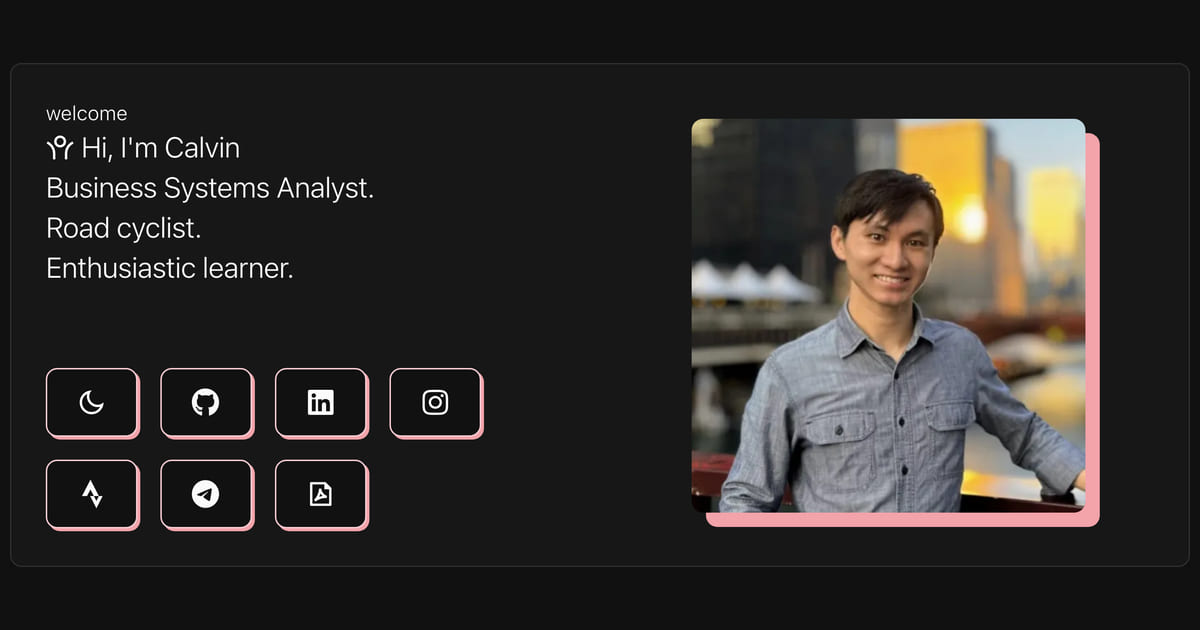
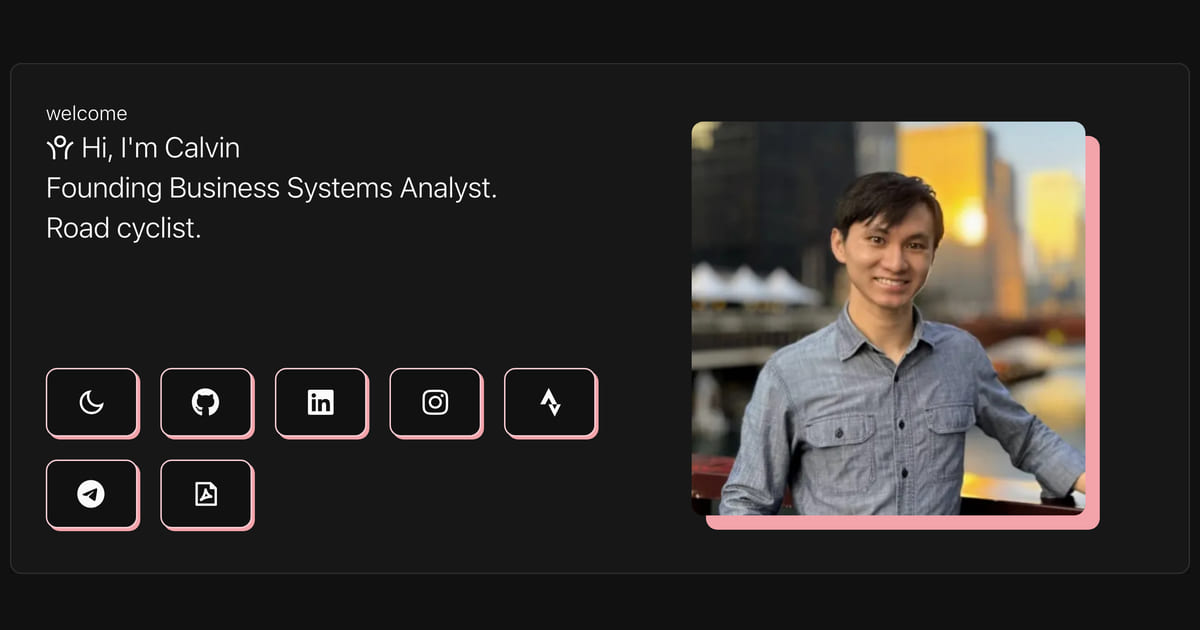
fix(seo): finish the job the title fix started, and gate it on the right quantity
A four-dimension review panel ran against 4aefb8a. It found the fix real and the
prose around it wrong in six places, plus two holes in the gates I added. This
commit applies all of it.

THE H1 WAS THE OTHER HALF OF THE DEFECT. WELCOME.description[1] read "Business
Systems Analyst." -- character-identical to CAREER[1].job_name, the title held at
NCS until Aug 2023 -- in the page's largest type, above a role card announcing the
current one. Correcting <title> and leaving that is a relocation, not a fix, so the
h1 now derives from CAREER[0] like everything else. "Enthusiastic learner." is cut
here too rather than surviving in the copy the title had to drop for width; the
stack is three h1s where it was four. public/preview.jpg is regenerated, because it
renders this card and is both the OG image and README's hero -- and og:title already
said "Founding" while that picture said otherwise. It was stale against main before
this branch: RMSE 17.1, the card 5px taller than when the file was made.

THE LENGTH CAP WAS NOT A WIDTH GATE. Two reviewers independently broke it in both
directions with unremarkable job titles: "Warehouse Automation Manager, WMS" is 33
characters like today's and renders 606px (passed, truncated); "Institutional
Litigation Field Officer" renders 565px (failed, 35px to spare). A count cannot
stand in for a width when a character spans 3.8px to 20.3px, so the gate now sums
Arial 20px advance widths from a measured table. Summing is an upper bound --
[…]

diff --git a/src/lib/constants.ts b/src/lib/constants.ts
@@ -85,6 +85,16 @@ export const LINKS: {
     link: "/resume.pdf", logo: "ri:file-pdf-2-line", name: "View résumé (PDF)"
 },];
 
+/**
+ * `CAREER[0].job_name` IS THE SITE'S ONLY RECORD OF THE CURRENT JOB, and five surfaces derive from
+ * it: the JSON-LD `jobTitle` in `BasicLayout.astro`, the `/llms.txt` blockquote and career line,
+ * the intro card's h1 ({@link WELCOME}), and the page title ({@link METADATA.title}) — which also
+ * feeds `og:title` and `twitter:title`. Change it here and every one of them moves.
+ *
+ * ONE THING IS NOT AUTOMATIC: the title has a width budget, so a longer job title can fail
+ * `tests/constants.test.ts` with a measured overflow. That is the gate working, not a bug — read
+ * the note on {@link METADATA.title} before shortening anything to get past it.
+ */
 export const CAREER: {
     company: string
     company_url: string
@@ -588,12 +598,34 @@ export const goalForSport = (sport: Sport): Goal => {
     return goal
 }
 
+/**
+ * The intro card's h1 stack — one `<h1>` per line, and THE JOB LINE IS DERIVED like every other
+ * statement of the job on this site.
+ *
+ * IT USED TO BE A TYPED COPY, AND IT WAS WRONG. The line read "Business Systems Analyst." —
+ * character-identical to {@link CAREER}[1].job_name, the title held at NCS until Aug 2023 — while
+ * the role card a few hundred pixels below it announced the current "Founding Business Systems
+ * Analyst" and showed the NCS one with its own dates. The page stated the previous employer's job
+ * title as the present tense, in its own largest type. A review panel found it while the fix for
+ * the identical defect in `<title>` was in flight: correcting one typed copy of a fact and leaving
+ * the other is not a fix, it is a relocation.
+ *
+ * "ENTHUSIASTIC LEARNER" IS GONE, and the reason is the one the maintainer gave: it is not a
+ * reference worth keeping anywhere. It named nothing else on the site — no card, no page, no goal,
+ * no event — and it was already cut from {@link METADATA.title} for the pixels. Cutting it here too
+ * is what makes that a decision about the copy rather than a truncation forced by a budget, and it
+ * pays for the longer job line: the stack is three h1s where it was four.
+ *
+ * ANY EDIT HERE OWES A `public/preview.jpg` REGENERATION. That file is both the OG/social image and
+ * README's hero, and it is a render of this very card, so it goes stale invisibly — nothing builds
+ * it and no test reads what it depicts. The recipe is recorded with the file.
+ */
 export const WELCOME: {
     greeting_icon: string
     description: string[]
 } = {
     greeting_icon: "ri:open-arm-line",
-    description: ["Hi, I'm Calvin", "Business Systems Analyst.", "Road cyclist.", "Enthusiastic learner."]
+    description: ["Hi, I'm Calvin", `${CAREER[0].job_name}.`, "Road cyclist."]
 }
 
 /**
@@ -1014,52 +1046,69 @@ export const METADATA: {
      *
      * A copy of a fact drifts the moment the fact moves, and a title is the last place
      * anyone thinks to edit — so the copy is gone rather than corrected. `CAREER[0]` is
-     * where a job title changes, once, and `FULL_NAME` is where the name does.
-     * `tests/rendered-html.test.ts` reads the BUILT page's `<title>` back against
-     * `CAREER[0].job_name`, so the gate is on the shipped document rather than on this
-     * expression.
+     * where a job title changes, once; `FULL_NAME` is where the name does; and
+     * {@link WELCOME} derives the h1 from the same place, so the page now has one record
+     * of the job rather than a corrected one and a forgotten one.
      *
-     * THE BUDGET IS PIXELS, AND THIS TITLE HAS NEVER FIT ONE. Google's desktop result
-     * renders a title in Arial 20px in a container about 600px wide, and cuts what does
-     * not fit. Measured in Chrome (canvas `measureText`, cross-checked against a laid-out
-     * span in the same face): the four-part title this replaces ran **724px**, and the
-     * pre-promotion one it inherited from ran **635px** — so "Enthusiastic Learner" has
-     * never been shown to anyone searching, and the fix that put the real job title in
-     * pushed "Road Cyclist" out with it. The copy here measures **578px** and is the whole
-     * string a reader sees.
+     * TWO TESTS, AND THEY GUARD DIFFERENT HALVES. `tests/rendered-html.test.ts` renders
+     * this page in-process and asserts the `<title>` it produces carries both
+     * `CAREER[0].job_name` and `METADATA.full_name` — that is a gate on the RENDER, which
+     * is what catches this expression being re-typed as a literal.
+     * `tests/build-output.test.ts` is the one that reads `dist/index.html` off disk, and it
+     * now makes the same assertion there. Neither sentence is decorative: the first version
+     * of this comment claimed the render test read the built page, and a reviewer disproved
+     * it by corrupting `dist/index.html` by hand and watching that test stay green.
      *
-     * WHAT THE REWRITE DROPPED AND WHY. "Enthusiastic Learner" is the one segment naming
-     * nothing on this site — no card, no page, and nobody searches it — so it went first
-     * and bought the room for the rest. Cycling stayed: half of what is here is a goal
-     * card and a wall of race bibs. The name is the FULL one because a title is where a
-     * search engine decides which Calvin this is, which is the same reason
-     * {@link METADATA.full_name} exists for the schema — and the em dash matches the
-     * `<heading> — <name>` shape every other page's title already uses.
+     * THE BUDGET IS PIXELS, AND THIS TITLE HAS NEVER FIT ONE. A desktop Google result
+     * renders a title link in Arial 20px and cuts what does not fit. **~600px is an SEO
+     * convention, not a documented constant** — Google states only that a title link is
+     * "truncated… typically to fit the device width", and the vendor figures in circulation
+     * disagree (580–600px, and a 2014 measurement of 482px at 18px Arial). Treat it as an
+     * estimate that tells you to front-load, not as a specification with slack to spend.
+     * Against that estimate, measured in Chrome: the four-part title this replaces ran
+     * **724px**, and the pre-promotion one it inherited from ran **635px**, so on a desktop
+     * result "Enthusiastic Learner" was never shown to anyone; the copy here runs **578px**.
      *
-     * A LONGER JOB TITLE NOW LENGTHENS THIS AUTOMATICALLY, which is the cost of deriving
-     * it: 578 of 600px leaves 22px, or about two characters. `tests/constants.test.ts`
-     * caps the length so that lands as a red test rather than as a silent truncation —
-     * the cap is a character count standing in for a pixel measurement, so when it fails,
-     * re-measure rather than raising it.
+     * WHAT THE REWRITE DROPPED AND WHY. "Enthusiastic Learner" went first because no card,
+     * page, goal or event on this site is about it, and it is now cut from {@link WELCOME}
+     * too rather than surviving in the copy the title had to drop for width. Cycling stayed
+     * because it is what the intro card's own h1 claims and what half the site is — a goal
+     * card and a wall of race bibs. Running has an equal claim and does not fit: five
+     * phrasings naming both sports were measured and the cheapest is 601px, which is the
+     * real reason only one sport is named. The name is the FULL one because a title is
+     * where a search engine decides which Calvin this is, which is the same reason
+     * {@link METADATA.full_name} exists for the schema. The em dash is the separator every
+     * other page's title already uses — those pages are `<heading> — Calvin`, so this one
+     * inverts the order and takes the full name deliberately: the home page is the entity,
+     * not a section of it.
      *
-     * The h1 on the intro card ({@link WELCOME}) still says the short job title, and still
-     * says "Enthusiastic learner". That is copy, not a second record of the job: it is
-     * four lines of self-introduction sized to the card, read by someone already on the
-     * page rather than deciding whether to open it.
+     * A LONGER JOB TITLE NOW LENGTHENS THIS AUTOMATICALLY, which is the cost of deriving it,
+     * and `tests/constants.test.ts` measures the width rather than counting characters. It
+     * used to count: a cap pinned at this string's own length, which two reviewers
+     * independently broke in both directions — a 33-character job title that renders 606px
+     * passed it, and a 40-character one that renders 565px failed it. The advance-width
+     * table behind the gate is `tests/helpers/arial-20px.ts`.
      */
     title: string
     description: string
     site_url: string
     name: string
     /**
-     * The full name, for machines: schema.org's `name` and `/llms.txt`'s H1.
+     * The entity name: schema.org's `name`, `/llms.txt`'s H1, and the HOME page's title.
      *
-     * SEPARATE FROM {@link METADATA.name} BECAUSE THEY HAVE DIFFERENT JOBS. `name` is
-     * what a page title says — "Page not found — Calvin" — where the surname would be
-     * stiff and the reader already knows whose site they are on. This is the opposite
-     * case: "Calvin" alone is a first name shared by millions and is close to useless as
-     * an entity for a search or answer engine trying to decide which Calvin this is.
-     * The `sameAs` profiles already say `calvin-loh`; the schema should agree with them.
+     * SEPARATE FROM {@link METADATA.name} BECAUSE THEY HAVE DIFFERENT JOBS, and the split
+     * is by page rather than by audience. `name` is the site-name slot in a SECONDARY
+     * page's title — "Page not found — Calvin", "My cycling events — Calvin" — where the
+     * surname would be stiff and the reader already knows whose site they are on. The home
+     * page is the opposite case, and it is the one a stranger meets first: "Calvin" alone
+     * is a first name shared by millions and is close to useless as an entity for a search
+     * or answer engine trying to decide which Calvin this is. The `sameAs` profiles already
+     * say `calvin-loh`; the title and the schema should agree with them.
+     *
+     * This comment used to say `name` is "what a page title says" full stop, which
+     * {@link METADATA.title} then made false — a rule and the code disagreeing, with
+     * nothing to catch it. If a future title changes which name it takes, change this
+     * sentence in the same edit.
      *
      * Read from his own profile README (github.com/calvindotsg/calvindotsg), which opens
      * "Hi, I'm Calvin Loh".

diff --git a/tests/constants.test.ts b/tests/constants.test.ts
@@ -6,6 +6,7 @@ import {
 } from "../src/lib/constants";
 import stravaProgress from "../src/data/strava-progress.json";
 import {kmFromMeters} from "../scripts/fetch-strava-progress.mjs";
+import {arial20pxWidth} from "./helpers/arial-20px";
 
 /**
  * `src/lib/constants.ts` is the single source of truth for every piece of site
@@ -223,9 +224,18 @@ describe("CAREER", () => {
         expect(CAREER.length).toBeGreaterThan(0);
     });
 
-    it("gives every entry a company, dates and at least one bullet", () => {
+    /*
+     * `job_name` is asserted here because three assertions elsewhere check it with
+     * `toContain` — the title, the career card and the llms.txt blockquote — and
+     * `"anything".includes("")` is true, so an empty job title satisfies all three at once
+     * while shipping `<title>Calvin Loh —  | Road Cyclist</title>`, `"jobTitle":""` and an
+     * llms blockquote that starts " at HeyMax". A reviewer set it empty and watched the
+     * whole suite stay green. A degenerate value is where a `toContain` gate goes quiet.
+     */
+    it("gives every entry a company, a job title, dates and at least one bullet", () => {
         for (const job of CAREER) {
             expect(job.company, "company must be set").toBeTruthy();
+            expect(job.job_name, `${job.company} job_name must be set`).toBeTruthy();
             expect(job.company_url).toMatch(/^https?:\/\//);
             expect(job.start_date).toBeTruthy();
             expect(job.end_date).toBeTruthy();
@@ -250,20 +260,42 @@ describe("METADATA", () => {
     });
 
     /*
-     * The upper bound is a PROXY, and knowing that is the point of it. A search result
-     * truncates by pixel width — about 600px of Arial 20px on desktop — and the shipped
-     * title measures 578px at 61 characters (Chrome canvas measureText, cross-checked
-     * against a laid-out span). Every earlier version of this title overflowed that
-     * container unnoticed, at 635px and then 724px, because nothing here looked.
+     * The name reaches five shipped strings — <title>, og:title, twitter:title, the schema's
+     * `name` and llms.txt's H1 — and every assertion on those compares them back to
+     * `METADATA.full_name` itself, which proves only that the pipeline is consistent. Set it
+     * to "" and the suite stayed green at 363 while the title shipped as " — Founding
+     * Business Systems Analyst | Road Cyclist" and llms.txt opened with a bare "#".
      *
-     * The job title is now interpolated from CAREER, so a promotion lengthens this string
-     * without anyone editing it. 61 is where the measurement was taken, so exceeding it
-     * means the measurement no longer covers the string: re-measure and move the bound to
-     * what you measured. Do not raise it to whatever the new title happens to be.
+     * `METADATA.name` is an independent literal, so relating the two is the cheapest
+     * non-tautological check available: the full name must contain the short one, and must
+     * actually be more than one word.
+     */
+    it("states a full name that agrees with the short one and is more than a first name", () => {
+        expect(METADATA.name, "the short name must be set").toBeTruthy();
+        expect(METADATA.full_name.startsWith(METADATA.name)).toBe(true);
+        expect(METADATA.full_name.trim().split(/\s+/).length).toBeGreaterThanOrEqual(2);
+    });
+
+    /*
+     * THE TITLE IS GATED ON WIDTH, NOT ON LENGTH, because that is the quantity a search
+     * result actually truncates on: roughly 600px of Arial 20px on desktop. This started
+     * as a character cap pinned at the shipped string's own length, and a review panel
+     * broke it in both directions with job titles nobody would blink at — "Warehouse
+     * Automation Manager, WMS" is 33 characters like today's and renders 606px (the cap
+     * passed it, truncated); "Institutional Litigation Field Officer I" renders 565px and
+     * the cap failed it with 35px to spare. A count cannot stand in for a width when one
+     * character spans 3.8px to 20.3px.
+     *
+     * The 600 is an SEO convention rather than a documented constant (see the note on
+     * METADATA.title), so it is a tripwire, not a specification. What it protects against
+     * is real: the job title is interpolated from CAREER, so a promotion lengthens this
+     * string with nobody editing it.
      */
     it("keeps the title and description within useful SEO lengths", () => {
         expect(METADATA.title.length).toBeGreaterThan(10);
-        expect(METADATA.title.length, "re-measure the rendered width before raising this").toBeLessThanOrEqual(61);
+        const width = arial20pxWidth(METADATA.title);
+        expect(width, `the title renders ${width.toFixed(1)}px of Arial 20px; a desktop result cuts near 600`)
+            .toBeLessThanOrEqual(600);
         expect(METADATA.description.length).toBeGreaterThan(50);
         expect(METADATA.description.length).toBeLessThanOrEqual(200);
     });

diff --git a/tests/helpers/arial-20px.ts b/tests/helpers/arial-20px.ts
@@ -1,0 +1,55 @@
+/**
+ * Advance widths of every character a page title can contain, in Arial 20px — the face and size
+ * a desktop Google result renders a title link in.
+ *
+ * WHY A TABLE AND NOT A CHARACTER COUNT. A result truncates by WIDTH, and a character count cannot
+ * express that: in this table a character is anywhere between 3.818px (`'`) and 20.303px (`@`), so
+ * a 61-character title spans roughly 350px to 1152px. The cap this replaced was calibrated at one
+ * string's length and admitted a title 6px over budget while rejecting one 35px under it — measured,
+ * not hypothesised, by two independent reviewers who each found a plausible job title that broke it
+ * in a different direction.
+ *
+ * SUMMING ADVANCES IS AN UPPER BOUND, which is the property that makes this safe to gate on. Kerning
+ * only ever pulls glyphs closer, so the sum can overestimate and cannot underestimate. Measured
+ * against Chrome's own `measureText` on five real titles: four agreed to 0.000px and the fifth — the
+ * only one containing a kerned pair (`Wa` in "Warehouse") — summed 1.846px high. A gate that errs
+ * high fails a title that would just barely have fitted; it never passes one that would not.
+ *
+ * PROVENANCE. Emitted from `chrome-headless-shell` over raw CDP: `ctx.font = "20px Arial"`, then
+ * `measureText(ch).width` per character, with two checks that make the numbers meaningful — canvas
+ * was proved to resolve the same face the DOM lays out (a laid-out span of the same string agreed to
+ * 0.34%), and 20px Times was measured as a negative control so "the face resolved" is a real
+ * observation rather than a tautology. Regenerate the same way if the budget or the face ever
+ * changes; do not hand-edit a number.
+ */
+export const ARIAL_20PX_ADVANCE: Readonly<Record<string, number>> = {
+    " ": 5.557, "!": 5.557, "\"": 7.1, "#": 11.123, "$": 11.123, "%": 17.783, "&": 13.34, "'": 3.818,
+    "(": 6.66, ")": 6.66, "*": 7.783, "+": 11.68, ",": 5.557, "-": 6.66, ".": 5.557, "/": 5.557,
+    "0": 11.123, "1": 11.123, "2": 11.123, "3": 11.123, "4": 11.123, "5": 11.123, "6": 11.123,
+    "7": 11.123, "8": 11.123, "9": 11.123, ":": 5.557, ";": 5.557, "<": 11.68, "=": 11.68, ">": 11.68,
+    "?": 11.123, "@": 20.303, "A": 13.34, "B": 13.34, "C": 14.443, "D": 14.443, "E": 13.34, "F": 12.217,
+    "G": 15.557, "H": 14.443, "I": 5.557, "J": 10, "K": 13.34, "L": 11.123, "M": 16.66, "N": 14.443,
+    "O": 15.557, "P": 13.34, "Q": 15.557, "R": 14.443, "S": 13.34, "T": 12.217, "U": 14.443, "V": 13.34,
+    "W": 18.877, "X": 13.34, "Y": 13.34, "Z": 12.217, "[": 5.557, "\\": 5.557, "]": 5.557, "^": 9.385,
+    "_": 11.123, "`": 6.66, "a": 11.123, "b": 11.123, "c": 10, "d": 11.123, "e": 11.123, "f": 5.557,
+    "g": 11.123, "h": 11.123, "i": 4.443, "j": 4.443, "k": 10, "l": 4.443, "m": 16.66, "n": 11.123,
+    "o": 11.123, "p": 11.123, "q": 11.123, "r": 6.66, "s": 10, "t": 5.557, "u": 11.123, "v": 10,
+    "w": 14.443, "x": 10, "y": 10, "z": 10, "{": 6.68, "|": 5.195, "}": 6.68, "~": 11.68, "—": 20,
+};
+
+/**
+ * The width of `text` in Arial 20px, as an upper bound (see the note above on kerning).
+ *
+ * Throws on a character the table does not carry rather than scoring it as zero. A silent zero is
+ * how a width gate passes a string it never measured — the table covers printable ASCII and the em
+ * dash, which is every character a title on this site has ever used, and anything else is a
+ * deliberate decision that deserves a re-measure rather than a default.
+ */
+export const arial20pxWidth = (text: string): number =>
+    [...text].reduce((total, ch) => {
+        const advance = ARIAL_20PX_ADVANCE[ch];
+        if (advance === undefined) {
+            throw new Error(`arial20pxWidth: no measured advance for ${JSON.stringify(ch)} — re-generate the table`);
+        }
+        return total + advance;
+    }, 0);

diff --git a/tests/rendered-html.test.ts b/tests/rendered-html.test.ts
@@ -102,12 +102,20 @@ describe("document head", () => {
     /*
      * The title and the JSON-LD below answer "what is his job" in the same document, and
      * they used to disagree: the schema read CAREER[0] while the title carried a typed
-     * copy that had missed a promotion. This reads the shipped `<title>` against CAREER
-     * itself, so re-typing the title as a literal — the exact way the two came apart —
-     * goes red rather than shipping a second, staler answer.
+     * copy that had missed a promotion. This reads the RENDERED `<title>` against the two
+     * facts it is built from, so re-typing it as a literal — the exact way the two came
+     * apart — goes red rather than shipping a second, staler answer.
+     *
+     * Both halves are needed, and the name half is here because a reviewer deleted it: a
+     * title of "Road Cyclist | Founding Business Systems Analyst" — no name at all — passed
+     * a job-title-only version of this test with the whole suite green, as did emptying
+     * FULL_NAME. The equivalent assertion on the built artifact lives in
+     * tests/build-output.test.ts; this file renders in-process and never reads dist/.
      */
-    it("serves the same job title in <title> as CAREER does to the schema", () => {
-        expect(doc.querySelector("title")?.textContent).toContain(CAREER[0].job_name);
+    it("serves the job title and the name that <title> is built from", () => {
+        const title = doc.querySelector("title")?.textContent;
+        expect(title).toContain(CAREER[0].job_name);
+        expect(title).toContain(METADATA.full_name);
     });
 
     it("renders the meta description", () => {

diff --git a/tests/build-output.test.ts b/tests/build-output.test.ts
@@ -1718,6 +1718,25 @@ describe("dist/index.html is prerendered", () => {
         expect(html).toContain(METADATA.description);
     });
 
+    /*
+     * The assertion above compares the artifact to METADATA.title, which is a comparison of
+     * the pipeline against itself: it holds whatever the title says. This one holds the
+     * SHIPPED bytes against the two facts the title is derived from, which is the property
+     * the deploy actually needs — the tab and the JSON-LD in this same file must answer
+     * "what is his job" and "which Calvin" identically.
+     *
+     * It is deliberately duplicated from tests/rendered-html.test.ts rather than trusted
+     * from there: that file renders in-process through the Container API and never opens
+     * dist/. A reviewer proved the difference by rewriting this file's <title> by hand — the
+     * render test stayed green on an artifact serving the pre-promotion title.
+     */
+    it("agrees with CAREER and the full name in the bytes that ship", () => {
+        const title = parseHTML(read("dist/index.html")).document.querySelector("title")?.textContent;
+        expect(title, "dist/index.html must carry a <title>").toBeTruthy();
+        expect(title).toContain(CAREER[0].job_name);
+        expect(title).toContain(METADATA.full_name);
+    });
+
     it("self-canonicalises to the configured site URL, not a request URL", () => {
         const href = doc().querySelector('link[rel="canonical"]')?.getAttribute("href");
         expect(href).toBe(METADATA.site_url);
